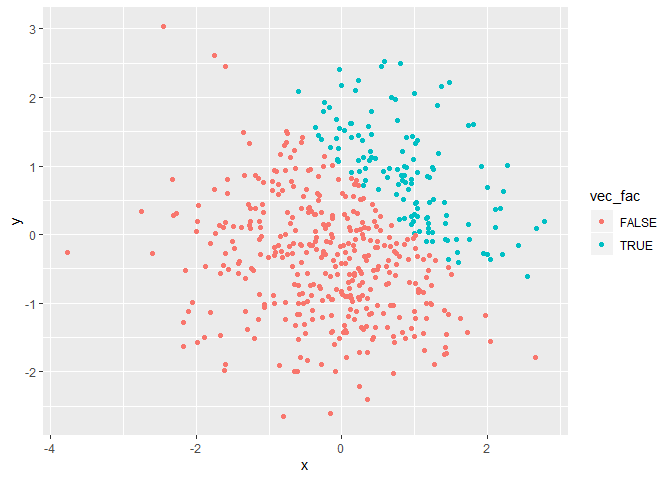
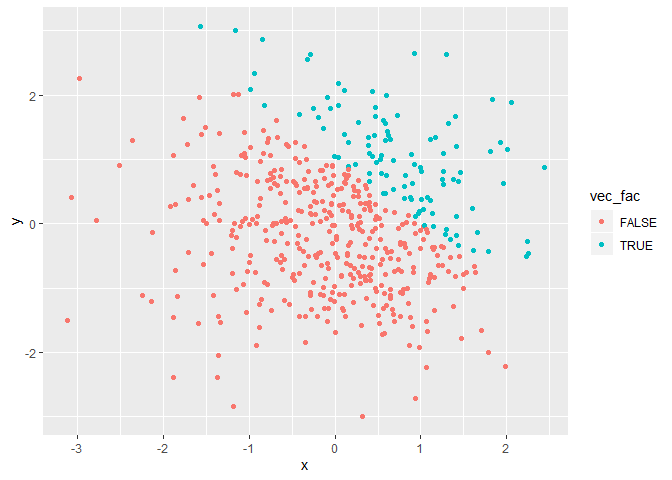
Modify the R Markdown document

diff --git a/p8105_hw1_yq2279.md b/p8105_hw1_yq2279.md
@@ -44,7 +44,7 @@ as.numeric(pull(df, vec_logical))
 as.numeric(pull(df, vec_char))
 ```
 
-    ## Warning: 强制改变过程中产生了NA
+    ## Warning: NAs introduced by coercion
 
 ``` r
 as.numeric(pull(df, vec_factor))
@@ -109,7 +109,7 @@ logical_to_fac_to_num_multi_s = logical_to_fac_to_num * pull(df, vec_numeric)
 rm(list = ls())
 ```
 
-First we Create a data frame.
+First we create a data frame.
 
 ``` r
 df_2 = tibble(
@@ -123,10 +123,10 @@ df_2 = tibble(
 
   - The size of the dataset is nrow = 500, ncol = 5.
 
-  - The mean, median, and standard deviation of x is 0.0600594,
-    0.1112811, and 1.0074569.
+  - The mean, median, and standard deviation of x is 0.0451418,
+    0.1162768, and 0.9379707.
 
-  - the proportion of cases for which x + y \> 1 is 25.6%.
+  - the proportion of cases for which x + y \> 1 is 21.2%.
 
 Then make a scatterplot of y vs x; color points using the logical
 variable and export it.
